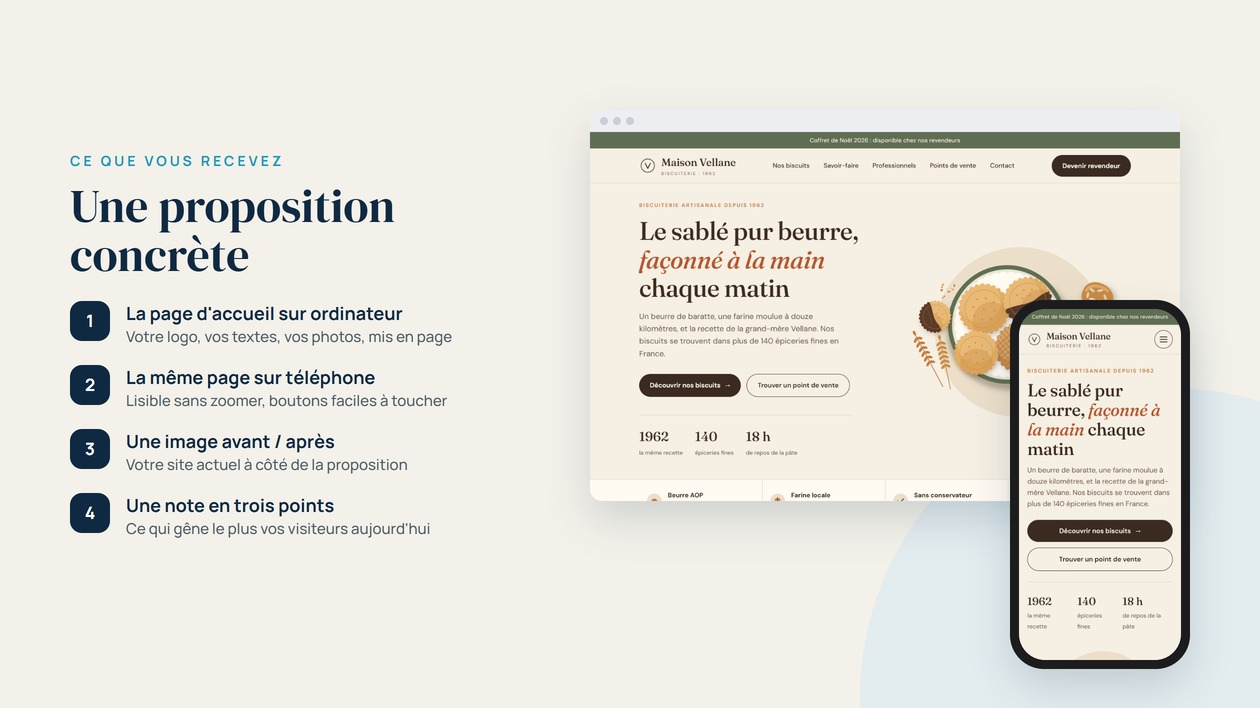
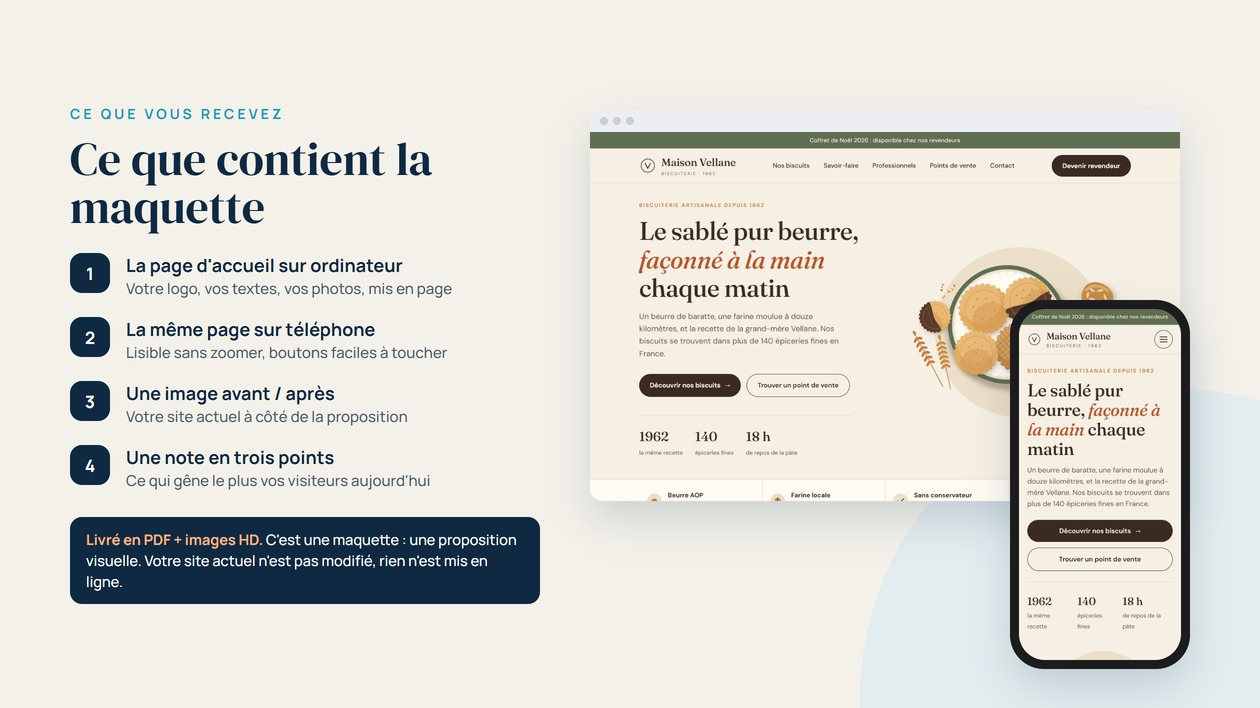
ComeUp : service maquette clarifié (livrables, ce que le service n'est pas, FAQ, image 2)

Changed region(s): [[0.031, 0.2797, 0.4333, 0.8701], [0.031, 0.1554, 0.3405, 0.2486]]

diff --git a/briefs/comeup-maquette/galerie-2.html b/briefs/comeup-maquette/galerie-2.html
@@ -11,16 +11,19 @@
   .item span { font-size: 15px; color: var(--texte); }
   .ecran { position: absolute; left: 590px; top: 110px; width: 590px; }
   .telephone { position: absolute; left: 1010px; top: 300px; width: 180px; }
+  .livre { margin-top: 8px; padding: 12px 16px; border-radius: 12px; background: var(--nuit); color: #fff; font-size: 14.5px; line-height: 1.45; }
+  .livre b { color: #ffb37f; }
 </style></head>
 <body>
   <div class="rond r2"></div>
   <div class="gauche">
     <div class="sur">Ce que vous recevez</div>
-    <h2>Une proposition concrète</h2>
+    <h2>Ce que contient la maquette</h2>
     <div class="item"><i>1</i><div><b>La page d'accueil sur ordinateur</b><span>Votre logo, vos textes, vos photos, mis en page</span></div></div>
     <div class="item"><i>2</i><div><b>La même page sur téléphone</b><span>Lisible sans zoomer, boutons faciles à toucher</span></div></div>
     <div class="item"><i>3</i><div><b>Une image avant / après</b><span>Votre site actuel à côté de la proposition</span></div></div>
     <div class="item"><i>4</i><div><b>Une note en trois points</b><span>Ce qui gêne le plus vos visiteurs aujourd'hui</span></div></div>
+    <div class="livre"><b>Livré en PDF + images HD.</b> C'est une maquette : une proposition visuelle. Votre site actuel n'est pas modifié, rien n'est mis en ligne.</div>
   </div>
   <div class="ecran fenetre ombre"><div class="barre"><b></b><b></b><b></b></div><img src="../maison-vellane/captures/accueil.png" alt=""></div>
   <div class="telephone tel ombre"><img src="../maison-vellane/captures/mobile.png" alt=""></div>

diff --git a/briefs/comeup-services.md b/briefs/comeup-services.md
@@ -156,11 +156,13 @@ Pack trois réseaux : Facebook, LinkedIn et YouTube, avec deux révisions
 
 ## 5. Nouveau service d'appel : maquette de la page d'accueil (réglages complets)
 
+Version clarifiée le 10/10/2026 : le propriétaire lui-même avait compris qu'un site était livré. Le service livre **une maquette** (images et PDF), jamais un site en ligne. Cela doit se lire dans le titre, la description, les options, la FAQ et les images.
+
 | Réglage | Valeur |
 |---|---|
 | Catégorie | Création site vitrine (ou « Webdesign » / « Maquette » si la catégorie existe dans le formulaire) |
-| Titre | Je vais redessiner la page d'accueil de votre site : maquette responsive |
-| Mots-clés | refonte site internet, maquette site web, webdesign, page d'accueil, site responsive, site vitrine, redesign |
+| Titre | Je vais créer la maquette de la nouvelle page d'accueil de votre site |
+| Mots-clés | maquette site web, maquette page d'accueil, refonte site internet, webdesign, redesign, site responsive, site vitrine |
 | Délai de la formule de base | 3 jours (le travail en demande un ; la marge évite les retards, qui pèsent sur le classement) |
 | Retours inclus | Une série de retours (à confirmer par le propriétaire) |
 | Prix | **À décider par le propriétaire.** Proposition de départ : 45 € la formule de base (environ une journée à 50 € par jour, un peu moins pour un service d'appel) |
@@ -170,32 +172,40 @@ Pack trois réseaux : Facebook, LinkedIn et YouTube, avec deux révisions
 ```text
 Votre site a quelques années, s'affiche mal sur téléphone ou ne ressemble plus à votre entreprise ? Avant de tout refaire, voyez à quoi il pourrait ressembler.
 
-Je redessine la page d'accueil de votre site actuel, avec votre logo, vos textes et vos photos, et je vous livre :
-• la maquette de la page d'accueil sur ordinateur ;
-• la même page sur téléphone ;
-• une image « avant / après » qui compare votre site actuel et la proposition ;
-• une courte note avec les trois points qui gênent le plus vos visiteurs aujourd'hui.
+Je crée la maquette de la nouvelle page d'accueil de votre site, à partir de votre site actuel : votre logo, vos textes et vos photos, dans une mise en page moderne.
 
-Le tout réuni dans un document PDF de présentation, avec les images en haute définition à part. Il s'agit d'une maquette, c'est-à-dire d'une proposition visuelle : votre site actuel n'est pas modifié et rien n'est mis en ligne.
+CE QUE VOUS RECEVEZ
+• La maquette de la page d'accueil sur ordinateur, en image haute définition
+• La même page sur téléphone, en image haute définition
+• Une image « avant / après » : votre site actuel à côté de la proposition
+• Une note avec les trois points qui gênent le plus vos visiteurs aujourd'hui
+Le tout réuni dans un document PDF de présentation, facile à transmettre à vos associés, avec les images à part.
 
-Comment ça se passe :
+CE QUE CE SERVICE N'EST PAS
+• Ce n'est pas un site en ligne : c'est une proposition visuelle, en images.
+• Votre site actuel n'est pas modifié.
+• Seule la page d'accueil est dessinée (d'autres pages sont disponibles en option).
+• Je reprends les textes de votre site ; je ne rédige pas de nouveaux contenus.
+
+ET ENSUITE ?
+La maquette vous appartient. Vous pouvez me confier la création du nouveau site (c'est un autre service), ou la remettre à votre propre prestataire. En option, je vous livre aussi la page codée en HTML, pour faciliter le travail d'un développeur.
+
+COMMENT ÇA SE PASSE
 1. Vous m'envoyez l'adresse de votre site et ce que vous aimeriez changer.
 2. Je vous pose une ou deux questions sur vos clients.
-3. Je vous livre la maquette, puis j'intègre vos retours.
+3. Je vous livre le PDF et les images, puis j'intègre vos retours.
 
-La maquette vous appartient : vous pouvez ensuite me confier la refonte complète, ou la remettre à votre propre prestataire.
-
-Exemple dans mon portfolio : le site de Maison Vellane, biscuiterie artisanale (projet concept, marque fictive).
+Exemple dans mon portfolio : Maison Vellane, biscuiterie artisanale (projet concept, marque fictive).
 ```
 
 **Options** (prix et délais : proposition, à décider par le propriétaire)
 
-| Option | Prix proposé | Délai en plus |
+| Option (texte à coller) | Prix proposé | Délai en plus |
 |---|---|---|
-| Une page intérieure supplémentaire en maquette (services, contact…) | 20 € | + 1 jour |
-| Une seconde proposition de style | 25 € | + 2 jours |
-| Les fichiers de la maquette en HTML, prêts à être intégrés | 35 € | + 2 jours |
-| Livraison express (en 24 heures) | 15 € | le délai passe à 1 jour |
+| Maquette d'une page supplémentaire (services, contact, à propos…), sur ordinateur et téléphone | 20 € | + 1 jour |
+| Une seconde proposition de style pour la page d'accueil | 25 € | + 2 jours |
+| La page d'accueil codée en HTML/CSS : fichiers à ouvrir dans un navigateur ou à remettre à votre développeur (pas de mise en ligne) | 35 € | + 2 jours |
+| Livraison express en 24 heures | 15 € | le délai passe à 1 jour |
 
 **Consignes à l'acheteur** (champ « instructions » ou questions posées après la commande)
 
@@ -211,20 +221,26 @@ Pour commencer, envoyez-moi :
 **Questions fréquentes** (si le formulaire en propose)
 
 ```text
-Q : Vous refaites tout mon site ?
-R : Non, ce service concerne la page d'accueil, en maquette. La refonte complète est un autre service, que vous pouvez commander ensuite.
+Q : Est-ce que vous refaites mon site ?
+R : Non. Ce service livre la maquette de votre future page d'accueil, en images et en PDF. Rien n'est mis en ligne et votre site actuel n'est pas modifié. La création du nouveau site est un autre service, que vous pouvez commander ensuite.
+
+Q : Qu'est-ce qu'une maquette ?
+R : Une image fidèle de ce à quoi ressemblera la page : mise en page, couleurs, textes, photos, sur ordinateur et sur téléphone. Elle sert à valider le résultat avant de lancer le développement.
+
+Q : Je pourrai l'utiliser avec un autre prestataire ?
+R : Oui, la maquette vous appartient. Avec l'option HTML, votre développeur reçoit en plus la page déjà codée.
 
 Q : Je n'ai pas de site, ce service est-il pour moi ?
 R : Pas vraiment : il part d'un site existant. Pour un premier site, voyez mon service de création de site vitrine.
 
-Q : Dans quel format recevrai-je la maquette ?
-R : Un document PDF de présentation (avant / après, maquette sur ordinateur et sur téléphone, note en trois points) et les images en haute définition à part. En option, la page en HTML, prête à être intégrée par un développeur ; elle n'est pas mise en ligne.
+Q : Vous écrivez les textes ?
+R : Je reprends ceux de votre site, en les raccourcissant si besoin pour la mise en page. La rédaction de nouveaux textes fait partie du service de création de site.
 ```
 
 **Images** (dans `briefs/comeup-maquette/sortie/`, à mettre dans cet ordre)
 
 1. `galerie-1.jpg` : image principale, « Voyez votre nouveau site avant de le refaire », avant / après sur ordinateur.
-2. `galerie-2.jpg` : ce que vous recevez (quatre éléments), maquette sur ordinateur et téléphone.
+2. `galerie-2.jpg` : ce que contient la maquette (quatre éléments), avec l'encadré « Livré en PDF + images HD. C'est une maquette : votre site actuel n'est pas modifié, rien n'est mis en ligne ».
 3. `galerie-3.jpg` : la différence sur téléphone, avant / après.
 4. `galerie-4.jpg` : les trois étapes et « la maquette vous appartient ».
 
